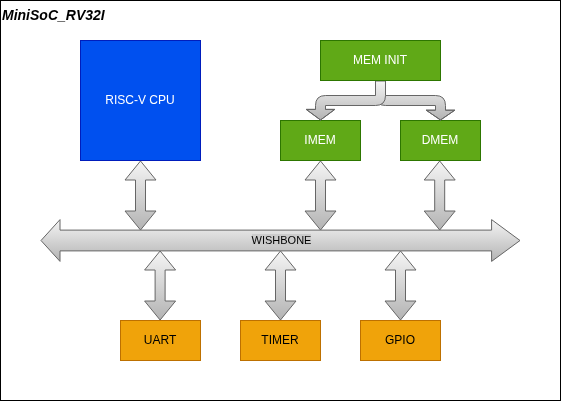
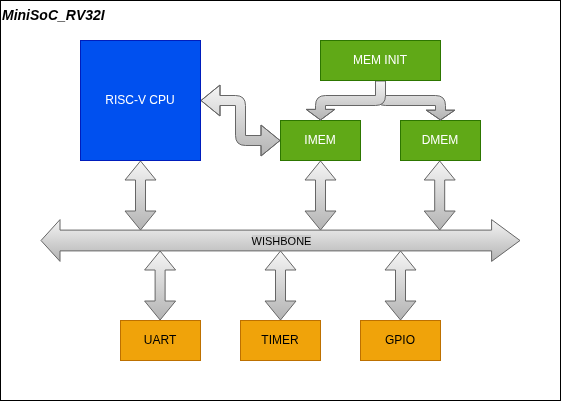
re-made diagrams and cleaning cpu source file; re-test: still OK

Changed region(s): [[0.3636, 0.2095, 0.5152, 0.389], [0.4545, 0.5686, 0.5455, 0.6284]]

diff --git a/README.md b/README.md
@@ -15,13 +15,18 @@ The project is focused on **learning and experimentation** in VLSI/ASIC/FPGA des
 ---
 
 ## SoC Architecture
-![SoC Architecture](./docs/diagrams/minisoc_diagram.png)
 
-
+### Pins Interface
 ![SoC Pinout](./docs/diagrams/minisoc_inout.png)
 
+### Block Diagram
+![SoC Architecture](./docs/diagrams/minisoc_diagram.png)
+
+### Demo Firmware Software Stack
+![SoC Software Stack](./docs/diagrams/software_stack.png)
+
 ### RISC-V CPU Architecture
-![RISC-V CPU Architecture](./docs/diagrams/cpu_architecture.png)
+![RISC-V CPU Architecture](./docs/diagrams/cpu_pipeline_architecture.png)
 
 **Pipeline Details**
 
@@ -117,17 +122,7 @@ make sim-minisoc-run
 
 The testbench will automatically track the Program Counter, monitor the Wishbone bus, and display UART/GPIO activity directly in your terminal:
 
-```text
-[UART TERMINAL] Mini RV32I SoC Firmware Started
-[UART TERMINAL] ================================
-[UART TERMINAL] System Clock: 100000000 Hz
-[UART TERMINAL] UART Baud:    115200 bps
-[UART TERMINAL] Memory:       32KB IMEM + 16KB DMEM
-[UART TERMINAL] ================================
-[UART TERMINAL] LED Blink Demo Started
-[GPIO] LED 0: 🟢 ON   (Time: 22573945000 ns)
-[GPIO] LED 0: ⚪ OFF  (Time: 23619175000 ns)
-```
+![Firmware Log Demo](./docs/diagrams/firrmware_demo.png)
 
 ---
 
